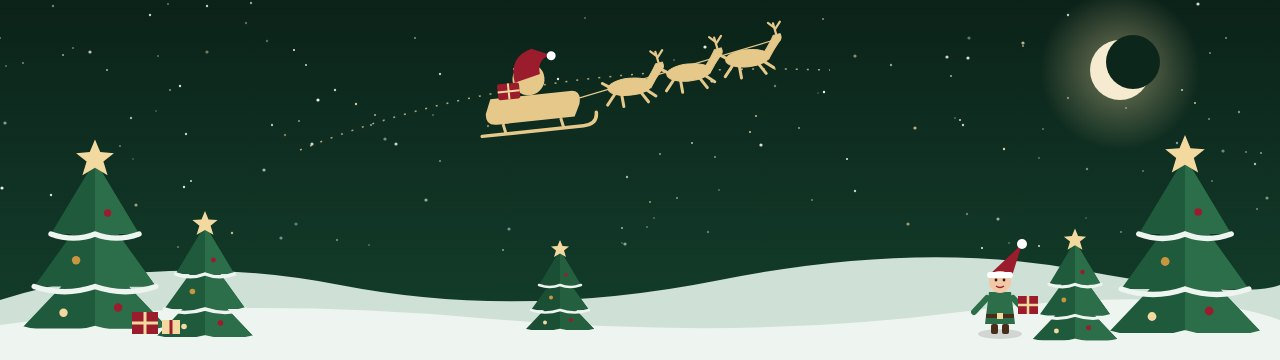
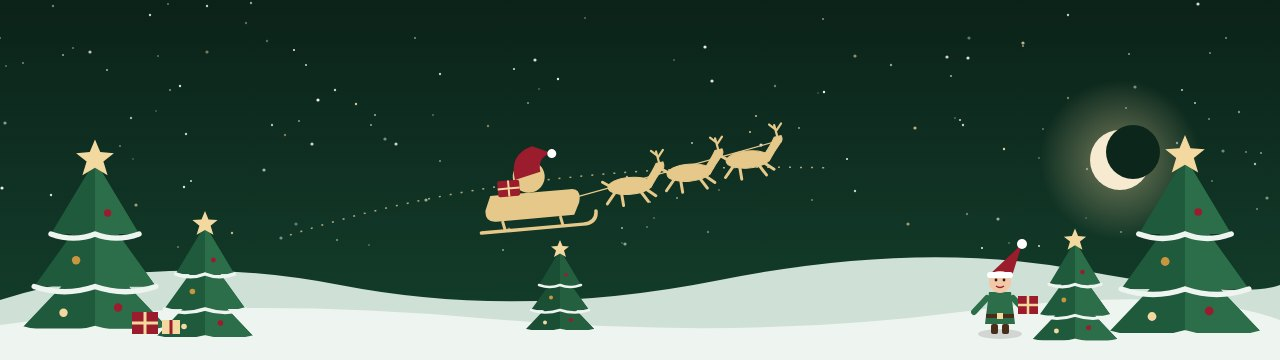
Onglets en haut et plus lisibles, scène corrigée, textes à la première personne, commande dès 12 bouteilles, photo Chardonnay, visuel v6 à la première personne
Claude-Session: https://claude.ai/code/session_016Jhk7mVKL7LLXBijkLCSDG

diff --git a/index.html b/index.html
@@ -164,7 +164,7 @@ body[data-view=tarif]{background-color:#0f2a1f}
 body[data-view=cmd]{background-color:#2a0d14}
 body{background-image:radial-gradient(1.3px 1.3px at 23px 41px,#fff 50%,transparent 52%),radial-gradient(1px 1px at 97px 13px,rgba(255,255,255,.8) 50%,transparent 52%),radial-gradient(1.6px 1.6px at 151px 87px,#f3d9a0 50%,transparent 52%),radial-gradient(1px 1px at 61px 129px,rgba(255,255,255,.7) 50%,transparent 52%),radial-gradient(1.3px 1.3px at 189px 171px,#fff 50%,transparent 52%),radial-gradient(1px 1px at 131px 199px,rgba(243,217,160,.85) 50%,transparent 52%),radial-gradient(1px 1px at 11px 211px,rgba(255,255,255,.6) 50%,transparent 52%);background-size:211px 223px;background-attachment:fixed}
 header{padding-bottom:0;position:relative}
-.scene{position:relative;height:clamp(150px,28vw,340px);margin:8px calc(-1*max(5vw,16px)) 0;overflow:hidden}
+.scene{position:relative;height:clamp(140px,22vw,280px);margin:8px calc(-1*max(5vw,16px)) 0;overflow:hidden}
 .scene svg{position:absolute;inset:0;width:100%;height:100%}
 .bar{background:rgba(9,28,20,.88);backdrop-filter:blur(6px);border-bottom-color:rgba(243,217,160,.25)}
 body[data-view=cmd] .bar{background:rgba(42,13,20,.9)}
@@ -177,17 +177,28 @@ footer{color:#d8d0c2;border-top-color:rgba(243,217,160,.25)}
 @keyframes neige{from{background-position:0 0,0 0,0 0,0 0}to{background-position:40px 520px,-30px 520px,20px 520px,-10px 520px}}
 @media(prefers-reduced-motion:reduce){.neige{animation:none;display:none}}
 @media print{.neige,.scene{display:none}body{background:#fff}}
+
+/* Onglets plus lisibles */
+.tabs a{opacity:1;font-size:16px;font-weight:700;letter-spacing:.01em;color:#fff;text-shadow:0 1px 2px rgba(0,0,0,.35);border:2px solid rgba(255,255,255,.7)}
+.tabs a:hover,.tabs a:focus-visible{border-color:#f3d9a0;filter:brightness(1.15);box-shadow:0 0 0 3px rgba(243,217,160,.35)}
+.tabs a[aria-current=page]{border-width:3px;border-color:#f3d9a0;box-shadow:0 0 0 3px rgba(243,217,160,.45)}
 </style>
 </head>
 <body>
+<div class="neige" aria-hidden="true"></div>
+<nav class="tabs" aria-label="Navigation">
+  <a href="#tarif" id="tTarif">Découvrir les vins</a>
+  <a href="#commande" id="tCmd">Commander <b id="tCount" hidden>0</b></a>
+</nav>
 <header class="band"><div class="wrap">
   <h1>Mon vin sous le sapin</h1>
-  <p>Le tarif complet des 6 domaines partenaires réunis par le Domaine La Ligière. Vous pouvez panacher les bouteilles dans vos cartons, au prix caveau.</p>
+  <p>Pour Noël, nous sommes six vignerons amis à réunir nos vins dans une seule commande. Nous vous proposons de composer vos cartons panachés, au prix du domaine, et nous vous les livrons avant Noël.</p>
   <div class="cond">
-    <span><b>Port offert</b> dès 18 bouteilles</span>
+    <span>Nous acceptons les commandes <b>dès 12 bouteilles</b></span>
+    <span>Nous offrons <b>le port dès 18 bouteilles</b></span>
     <span><b>2 €</b> de port par bouteille en dessous</span>
-    <span>Commande avant le <b>11 décembre</b>, livrée avant Noël</span>
-    <span>Commandes : philippebernard@laligiere.fr</span>
+    <span>Commandez avant le <b>11 décembre</b> : nous livrons avant Noël</span>
+    <span hidden>Commandes : philippebernard@laligiere.fr</span>
   </div>
   <div class="logos" aria-label="Les 6 domaines">
     <img src="img/logo2-ll.webp" alt="Domaine La Ligière"><img src="img/logo2-ja.webp" alt="Domaine Juliette Avril"><img src="img/logo2-dc.webp" alt="Domaine des Combat"><img src="img/logo2-am.webp" alt="Domaine de l'Amauve"><img src="img/logo2-mv.webp" alt="Mas des Volques"><img src="img/logo2-tr.webp" alt="Domaine Trichon">
@@ -202,9 +213,9 @@ footer{color:#d8d0c2;border-top-color:rgba(243,217,160,.25)}
 <path d="M-21,-2 l-6,-4" stroke-width="3"/></g></defs>
 
 <circle cx="415" cy="38" r="0.8" fill="#fff" opacity="0.84"/><circle cx="120" cy="146" r="1.0" fill="#fff" opacity="0.40"/><circle cx="535" cy="60" r="1.6" fill="#fff" opacity="0.85"/><circle cx="158" cy="56" r="0.8" fill="#f3d9a0" opacity="0.70"/><circle cx="63" cy="55" r="1.0" fill="#fff" opacity="0.60"/><circle cx="692" cy="143" r="1.0" fill="#fff" opacity="0.70"/><circle cx="818" cy="93" r="0.8" fill="#f3d9a0" opacity="0.39"/><circle cx="264" cy="170" r="1.6" fill="#fff" opacity="0.63"/><circle cx="1182" cy="90" r="1.0" fill="#fff" opacity="0.77"/><circle cx="312" cy="144" r="1.6" fill="#fff" opacity="0.79"/><circle cx="369" cy="245" r="0.8" fill="#f3d9a0" opacity="0.60"/><circle cx="969" cy="38" r="1.6" fill="#fff" opacity="0.37"/><circle cx="855" cy="191" r="1.2" fill="#fff" opacity="0.77"/><circle cx="761" cy="145" r="1.6" fill="#fff" opacity="0.85"/><circle cx="1209" cy="119" r="0.8" fill="#fff" opacity="0.79"/><circle cx="396" cy="144" r="1.6" fill="#fff" opacity="0.78"/><circle cx="1135" cy="87" r="1.6" fill="#fff" opacity="0.45"/><circle cx="150" cy="15" r="1.2" fill="#fff" opacity="0.79"/><circle cx="509" cy="229" r="1.6" fill="#fff" opacity="0.45"/><circle cx="514" cy="69" r="1.0" fill="#fff" opacity="0.87"/><circle cx="356" cy="104" r="1.2" fill="#f3d9a0" opacity="0.88"/><circle cx="1226" cy="38" r="1.0" fill="#fff" opacity="0.49"/><circle cx="299" cy="121" r="1.0" fill="#fff" opacity="0.52"/><circle cx="186" cy="134" r="1.2" fill="#fff" opacity="0.76"/><circle cx="660" cy="154" r="0.8" fill="#fff" opacity="0.89"/><circle cx="998" cy="219" r="1.6" fill="#fff" opacity="0.59"/><circle cx="133" cy="159" r="0.8" fill="#fff" opacity="0.39"/><circle cx="267" cy="41" r="1.2" fill="#f3d9a0" opacity="0.38"/><circle cx="0" cy="38" r="0.8" fill="#fff" opacity="0.72"/><circle cx="90" cy="52" r="1.6" fill="#fff" opacity="0.73"/><circle cx="1223" cy="151" r="1.6" fill="#fff" opacity="0.42"/><circle cx="625" cy="244" r="1.6" fill="#fff" opacity="0.54"/><circle cx="184" cy="187" r="1.2" fill="#fff" opacity="0.85"/><circle cx="207" cy="6" r="1.2" fill="#fff" opacity="0.76"/><circle cx="1170" cy="190" r="1.2" fill="#f3d9a0" opacity="0.87"/><circle cx="891" cy="65" r="1.2" fill="#fff" opacity="0.56"/><circle cx="285" cy="135" r="1.2" fill="#f3d9a0" opacity="0.48"/><circle cx="1039" cy="246" r="1.0" fill="#fff" opacity="0.84"/><circle cx="947" cy="57" r="1.6" fill="#fff" opacity="0.79"/><circle cx="1267" cy="198" r="1.6" fill="#fff" opacity="0.47"/><circle cx="775" cy="86" r="1.2" fill="#fff" opacity="0.40"/><circle cx="131" cy="118" r="1.2" fill="#fff" opacity="0.64"/><circle cx="1261" cy="153" r="0.8" fill="#fff" opacity="0.90"/><circle cx="440" cy="161" r="0.8" fill="#fff" opacity="0.82"/><circle cx="960" cy="120" r="1.0" fill="#fff" opacity="0.82"/><circle cx="426" cy="200" r="1.6" fill="#fff" opacity="0.59"/><circle cx="1212" cy="181" r="1.0" fill="#fff" opacity="0.37"/><circle cx="756" cy="116" r="1.0" fill="#f3d9a0" opacity="0.85"/><circle cx="1255" cy="164" r="1.2" fill="#fff" opacity="0.68"/><circle cx="168" cy="4" r="0.8" fill="#f3d9a0" opacity="0.80"/><circle cx="178" cy="247" r="1.0" fill="#fff" opacity="0.37"/><circle cx="272" cy="125" r="1.2" fill="#fff" opacity="0.68"/><circle cx="1068" cy="15" r="1.2" fill="#fff" opacity="0.75"/><circle cx="1043" cy="129" r="1.0" fill="#f3d9a0" opacity="0.44"/><circle cx="654" cy="218" r="1.0" fill="#f3d9a0" opacity="0.35"/><circle cx="1023" cy="43" r="1.6" fill="#f3d9a0" opacity="0.79"/><circle cx="712" cy="81" r="1.6" fill="#fff" opacity="0.88"/><circle cx="73" cy="48" r="0.8" fill="#fff" opacity="0.65"/><circle cx="719" cy="190" r="0.8" fill="#fff" opacity="0.55"/><circle cx="1246" cy="152" r="1.0" fill="#f3d9a0" opacity="0.52"/><circle cx="650" cy="202" r="1.0" fill="#f3d9a0" opacity="0.66"/><circle cx="1121" cy="232" r="1.0" fill="#fff" opacity="0.43"/><circle cx="156" cy="111" r="0.8" fill="#f3d9a0" opacity="0.49"/><circle cx="94" cy="167" r="0.8" fill="#fff" opacity="0.91"/><circle cx="824" cy="92" r="1.2" fill="#fff" opacity="0.93"/><circle cx="281" cy="238" r="1.6" fill="#fff" opacity="0.45"/><circle cx="855" cy="56" r="1.6" fill="#f3d9a0" opacity="0.59"/><circle cx="539" cy="89" r="0.8" fill="#f3d9a0" opacity="0.57"/><circle cx="433" cy="115" r="0.8" fill="#fff" opacity="0.55"/><circle cx="799" cy="128" r="0.8" fill="#fff" opacity="0.94"/><circle cx="1009" cy="243" r="0.8" fill="#fff" opacity="0.51"/><circle cx="51" cy="195" r="1.2" fill="#fff" opacity="0.84"/><circle cx="1087" cy="169" r="1.2" fill="#fff" opacity="0.44"/><circle cx="1177" cy="143" r="1.2" fill="#fff" opacity="0.52"/><circle cx="1023" cy="46" r="0.8" fill="#fff" opacity="0.91"/><circle cx="812" cy="200" r="0.8" fill="#f3d9a0" opacity="0.86"/><circle cx="85" cy="216" r="1.6" fill="#fff" opacity="0.55"/><circle cx="708" cy="232" r="1.2" fill="#f3d9a0" opacity="0.43"/><circle cx="674" cy="60" r="0.8" fill="#fff" opacity="0.51"/><circle cx="232" cy="233" r="1.2" fill="#f3d9a0" opacity="0.81"/><circle cx="371" cy="125" r="1.0" fill="#fff" opacity="0.56"/><circle cx="23" cy="63" r="0.8" fill="#fff" opacity="0.79"/><circle cx="705" cy="47" r="1.6" fill="#fff" opacity="0.91"/><circle cx="136" cy="205" r="1.6" fill="#f3d9a0" opacity="0.65"/><circle cx="1068" cy="98" r="1.2" fill="#f3d9a0" opacity="0.48"/><circle cx="294" cy="50" r="1.0" fill="#fff" opacity="0.94"/><circle cx="1257" cy="209" r="0.8" fill="#fff" opacity="0.73"/><circle cx="1126" cy="108" r="0.8" fill="#fff" opacity="0.75"/><circle cx="488" cy="126" r="1.2" fill="#f3d9a0" opacity="0.50"/><circle cx="375" cy="115" r="1.0" fill="#fff" opacity="0.62"/><circle cx="337" cy="240" r="1.2" fill="#fff" opacity="0.37"/><circle cx="1129" cy="54" r="1.0" fill="#fff" opacity="0.55"/><circle cx="107" cy="70" r="1.0" fill="#fff" opacity="0.65"/><circle cx="6" cy="66" r="0.8" fill="#fff" opacity="0.59"/><circle cx="53" cy="6" r="1.2" fill="#f3d9a0" opacity="0.49"/><circle cx="750" cy="132" r="1.0" fill="#f3d9a0" opacity="0.89"/><circle cx="1004" cy="149" r="1.2" fill="#f3d9a0" opacity="0.94"/><circle cx="191" cy="181" r="1.0" fill="#fff" opacity="0.84"/><circle cx="915" cy="128" r="1.6" fill="#f3d9a0" opacity="0.77"/><circle cx="647" cy="227" r="0.8" fill="#f3d9a0" opacity="0.70"/><circle cx="1143" cy="171" r="1.0" fill="#fff" opacity="0.37"/><circle cx="170" cy="90" r="0.8" fill="#fff" opacity="0.85"/><circle cx="715" cy="157" r="1.0" fill="#fff" opacity="0.51"/><circle cx="585" cy="18" r="0.8" fill="#f3d9a0" opacity="0.67"/><circle cx="955" cy="118" r="0.8" fill="#fff" opacity="0.49"/><circle cx="968" cy="58" r="1.6" fill="#fff" opacity="0.86"/><circle cx="98" cy="228" r="1.2" fill="#fff" opacity="0.72"/><circle cx="823" cy="19" r="1.0" fill="#fff" opacity="0.50"/><circle cx="951" cy="76" r="1.0" fill="#fff" opacity="0.64"/><circle cx="622" cy="243" r="0.8" fill="#f3d9a0" opacity="0.48"/><circle cx="627" cy="177" r="1.2" fill="#fff" opacity="0.63"/><circle cx="982" cy="248" r="1.0" fill="#fff" opacity="0.94"/><circle cx="1198" cy="4" r="1.6" fill="#fff" opacity="0.84"/><circle cx="1239" cy="112" r="1.2" fill="#fff" opacity="0.48"/><circle cx="1210" cy="53" r="0.8" fill="#fff" opacity="0.80"/><circle cx="335" cy="90" r="1.2" fill="#fff" opacity="0.77"/><circle cx="296" cy="224" r="1.6" fill="#fff" opacity="0.36"/><circle cx="5" cy="123" r="1.6" fill="#fff" opacity="0.53"/><circle cx="180" cy="86" r="1.2" fill="#fff" opacity="0.85"/><circle cx="2" cy="188" r="1.6" fill="#fff" opacity="0.91"/><circle cx="251" cy="3" r="1.2" fill="#fff" opacity="0.57"/><circle cx="503" cy="250" r="0.8" fill="#fff" opacity="0.91"/><circle cx="967" cy="214" r="1.2" fill="#fff" opacity="0.38"/><circle cx="847" cy="159" r="1.0" fill="#fff" opacity="0.93"/><circle cx="558" cy="79" r="1.2" fill="#fff" opacity="0.88"/><circle cx="1039" cy="158" r="1.0" fill="#f3d9a0" opacity="0.40"/><circle cx="1195" cy="103" r="1.0" fill="#f3d9a0" opacity="0.87"/><circle cx="622" cy="228" r="1.0" fill="#fff" opacity="0.63"/><circle cx="440" cy="74" r="1.2" fill="#fff" opacity="0.74"/><circle cx="385" cy="139" r="1.6" fill="#fff" opacity="0.45"/><circle cx="207" cy="52" r="1.6" fill="#f3d9a0" opacity="0.48"/><circle cx="1160" cy="249" r="1.6" fill="#fff" opacity="0.43"/><circle cx="246" cy="23" r="1.2" fill="#f3d9a0" opacity="0.40"/><circle cx="306" cy="65" r="1.0" fill="#fff" opacity="0.80"/><circle cx="528" cy="103" r="1.0" fill="#fff" opacity="0.51"/><circle cx="963" cy="125" r="1.2" fill="#fff" opacity="0.76"/><circle cx="677" cy="198" r="1.0" fill="#fff" opacity="0.51"/><circle cx="318" cy="100" r="1.6" fill="#fff" opacity="0.92"/><circle cx="1086" cy="218" r="0.8" fill="#fff" opacity="0.37"/><circle cx="908" cy="224" r="1.6" fill="#f3d9a0" opacity="0.64"/>
-<circle cx="1120" cy="70" r="80" fill="url(#glowx)"/><mask id="mn"><circle cx="1120" cy="70" r="30" fill="#fff"/><circle cx="1133" cy="62" r="27" fill="#000"/></mask><circle cx="1120" cy="70" r="30" fill="#f6ead0" mask="url(#mn)"/>
-<path d="M300,150 Q520,60 830,70" stroke="#f3d9a0" stroke-width="1.5" stroke-dasharray="2 9" fill="none" opacity=".7"/>
-<g transform="translate(560,92) rotate(-6)">
+<circle cx="1120" cy="160" r="80" fill="url(#glowx)"/><mask id="mn"><circle cx="1120" cy="160" r="30" fill="#fff"/><circle cx="1133" cy="152" r="27" fill="#000"/></mask><circle cx="1120" cy="160" r="30" fill="#f6ead0" mask="url(#mn)"/>
+<path d="M290,235 Q520,160 830,168" stroke="#f3d9a0" stroke-width="1.5" stroke-dasharray="2 9" fill="none" opacity=".7"/>
+<g transform="translate(560,190) rotate(-5)">
 <use href="#rdx" x="190" y="-14"/><use href="#rdx" x="130" y="-6"/><use href="#rdx" x="70" y="2"/>
 <path d="M18,8 L222,-30" stroke="#e6c98a" stroke-width="1.2"/>
 <g fill="#e6c98a"><path d="M-70,0 L10,0 Q22,0 18,14 L12,26 L-66,26 Q-78,26 -76,14Z"/>
@@ -262,14 +273,10 @@ footer{color:#d8d0c2;border-top-color:rgba(243,217,160,.25)}
 </svg></div>
 </header>
 
-<div class="neige" aria-hidden="true"></div>
-<nav class="tabs" aria-label="Navigation">
-  <a href="#tarif" id="tTarif">Découvrir les vins</a>
-  <a href="#commande" id="tCmd">Commander <b id="tCount" hidden>0</b></a>
-</nav>
+
 <div id="vTarif">
 <div class="bar">
-  <p class="hint">Choisissez vos vins, cliquez sur « Commander » : vous pouvez panacher librement, le port est offert dès 18 bouteilles.</p>
+  <p class="hint">Choisissez vos vins et cliquez sur « Commander » : nous acceptons les commandes dès 12 bouteilles, panachées librement, et nous offrons le port dès 18 bouteilles.</p>
   <div class="ctl">
     <label class="f">Domaine<select id="fDom"></select></label>
     <label class="f">Couleur<select id="fCol"></select></label>
@@ -313,7 +320,7 @@ footer{color:#d8d0c2;border-top-color:rgba(243,217,160,.25)}
   <p class="sub" id="pmsg"></p>
   <p class="sub" id="dem"></p>
   <h2 id="coord">Vos coordonnées</h2>
-  <p class="sub">Les champs marqués <b class="req">*</b> sont obligatoires. Le règlement vous est demandé ensuite par SMS.</p>
+  <p class="sub">Les champs marqués <b class="req">*</b> sont obligatoires. Nous vous demandons ensuite le règlement par SMS.</p>
   <form id="form" class="form" novalidate>
     <label class="f"><span>Nom <b class="req">*</b></span><input id="nom" autocomplete="family-name"></label>
     <label class="f"><span>Prénom <b class="req">*</b></span><input id="prenom" autocomplete="given-name"></label>
@@ -582,11 +589,11 @@ let cart={};
 try{cart=JSON.parse(localStorage.getItem("mvsls-cart")||"{}")||{}}catch(e){}
 for(const k of Object.keys(cart)){if(!(cart[k]>0)||!W[k])delete cart[k]}
 const saveCart=()=>{try{localStorage.setItem("mvsls-cart",JSON.stringify(cart))}catch(e){}};
-const SEUIL=18,PORT=2,ship=q=>q>0&&q<SEUIL?q*PORT:0;
+const MINI=12,SEUIL=18,PORT=2,ship=q=>q>0&&q<SEUIL?q*PORT:0;
 function totals(){let q=0,v=0,n=0;for(const[i,k]of Object.entries(cart)){q+=k;W[i].p?v+=W[i].p*k:n+=k}return{q,v,n,port:ship(q)}}
 function badge(){const t=totals();$("tCount").hidden=!t.q;$("tCount").textContent=t.q;
  const m=$("mini");if(m){m.hidden=!t.q||location.hash==="#commande";$("miq").textContent=t.q;$("mit").textContent=eur(t.v+t.port);
- $("mim").textContent=t.q>=SEUIL?"Port offert !":`Encore ${SEUIL-t.q} pour le port offert`}}
+ $("mim").textContent=t.q<MINI?`Commande dès ${MINI} bouteilles : encore ${MINI-t.q}`:t.q>=SEUIL?"Port offert !":`Encore ${SEUIL-t.q} pour le port offert`}}
 function drawCart(hl){
  const ids=Object.keys(cart).map(Number).sort((a,b)=>(W[b].p||0)-(W[a].p||0));
  $("cart").innerHTML=ids.length?ids.map(i=>{const w=W[i],k=cart[i];
@@ -594,13 +601,13 @@ function drawCart(hl){
   return `<div class="cl${i===hl?" hl":""}" data-i="${i}" id="cl${i}">${vis}<div><div class="n">${esc(w.n)}${w.m?" "+w.m:""}</div><div class="s">${esc(w.d)} · ${esc(w.c)} · ${w.p?eur(w.p)+" la bouteille":"prix sur demande"}</div></div>
   <div class="qty"><button type="button" data-st="-1" aria-label="Retirer une bouteille">−</button><input type="number" min="0" value="${k}" aria-label="Quantité ${esc(w.n)}" data-q><button type="button" data-st="1" aria-label="Ajouter une bouteille">+</button></div>
   <div class="lt">${w.p?eur(w.p*k):"À confirmer"}</div><button class="rm" type="button" aria-label="Retirer ${esc(w.n)}">×</button></div>`}).join(""):
-  `<p class="sub">Votre commande est vide. Retournez au descriptif et cliquez sur « Commander » sous les vins de votre choix.</p>`;
+  `<p class="sub">Votre commande est vide (commande possible dès 12 bouteilles). Retournez à « Découvrir les vins » et cliquez sur « Commander » sous les vins de votre choix.</p>`;
  sums();
 }
 function sums(){const t=totals(),ok=t.q>=SEUIL;
  $("kq").textContent=t.q;$("kv").textContent=eur(t.v);$("kp").textContent=ok?"Offert":eur(t.port);$("kt").textContent=eur(t.v+t.port);
  $("mi").style.width=Math.min(t.q/SEUIL,1)*100+"%";$("meter").classList.toggle("ok",ok);
- $("pmsg").textContent=ok?"Port offert !":t.q?`Encore ${SEUIL-t.q} bouteille${SEUIL-t.q>1?"s":""} pour le port offert (vous économisez ${eur(t.port)}).`:`Port offert dès ${SEUIL} bouteilles, panachage possible.`;
+  $("pmsg").textContent=t.q&&t.q<MINI?`Commande possible dès ${MINI} bouteilles : encore ${MINI-t.q} bouteille${MINI-t.q>1?"s":""} à ajouter.`:ok?"Port offert !":t.q?`Encore ${SEUIL-t.q} bouteille${SEUIL-t.q>1?"s":""} pour le port offert (vous économisez ${eur(t.port)}).`:`Commande possible dès ${MINI} bouteilles, port offert dès ${SEUIL} bouteilles, panachage libre.`;
  $("dem").textContent=t.n?`Dont ${t.n} bouteille${t.n>1?"s":""} au prix sur demande, non comptée${t.n>1?"s":""} dans le total : le prix vous est confirmé avant règlement.`:"";
  badge();saveCart();
 }
@@ -653,6 +660,7 @@ const REQ=[["nom","Nom"],["prenom","Prénom"],["email","E-mail"],["tel","Télép
 const CHK={email:[/^[^\s@]+@[^\s@]+\.[^\s@]+$/,"adresse invalide"],tel:[/^\+?\d{9,15}$/,"numéro invalide"],cp:[/^\d{5}$/,"5 chiffres attendus"]};
 $("form").addEventListener("submit",e=>{e.preventDefault();const pb=[],bad=[];const t=totals();
  if(!t.q)pb.push("Votre commande est vide.");
+ else if(t.q<MINI)pb.push(`La commande est possible dès ${MINI} bouteilles : ajoutez encore ${MINI-t.q} bouteille${MINI-t.q>1?"s":""}.`);
  for(const[id,l]of REQ){const v=$(id).value.trim();if(!v){pb.push(l+" : non renseigné");bad.push(id);continue}
   const c=CHK[id];if(c&&!c[0].test(id==="email"?v:v.replace(/[\s.\-]/g,""))){pb.push(l+" : "+c[1]);bad.push(id)}}
  REQ.forEach(([id])=>$(id).setAttribute("aria-invalid",bad.includes(id)));

diff --git a/emailing.html b/emailing.html
@@ -13,8 +13,8 @@
 <tr><td align="center" style="padding:12px 24px;background:#e6c98a;font:bold 14px Arial,sans-serif;color:#1b1b1b;">En cliquant, vous serez redirigé vers notre site de commande. Si votre messagerie vous le demande, validez simplement l’ouverture du lien.</td></tr>
 <tr><td style="padding:28px 32px 10px;font-size:16px;line-height:1.55;color:#f2ece0;background:#123d2b;">
 <p style="margin:0 0 14px;">Bonjour,</p>
-<p style="margin:0 0 14px;">Cette année, six domaines amis s’associent le temps de Noël : <b style="color:#f3d9a0;">une seule commande</b>, des <b style="color:#f3d9a0;">cartons panachés</b> au prix du domaine, de la vallée du Rhône au Bugey et au Duché d’Uzès.</p>
-<p style="margin:0 0 6px;">✓ <b style="color:#f3d9a0;">Port offert</b> dès 18 bouteilles (sinon 2 € par bouteille)<br>✓ Commandes jusqu’au <b style="color:#f3d9a0;">11 décembre</b>, livraison <b style="color:#f3d9a0;">avant Noël</b><br>✓ Bon de commande envoyé par e-mail, règlement demandé ensuite par SMS</p>
+<p style="margin:0 0 14px;">Cette année, nous sommes six vignerons amis à nous associer le temps de Noël : <b style="color:#f3d9a0;">une seule commande</b>, des <b style="color:#f3d9a0;">cartons panachés</b> au prix du domaine, de la vallée du Rhône au Bugey et au Duché d’Uzès.</p>
+<p style="margin:0 0 6px;">✓ Nous acceptons les commandes <b style="color:#f3d9a0;">dès 12 bouteilles</b>, panachées librement<br>✓ Nous offrons <b style="color:#f3d9a0;">le port dès 18 bouteilles</b> (sinon 2 € par bouteille)<br>✓ Commandez avant le <b style="color:#f3d9a0;">11 décembre</b> : nous livrons <b style="color:#f3d9a0;">avant Noël</b><br>✓ Vous nous envoyez votre bon de commande par e-mail, nous vous demandons ensuite le règlement par SMS</p>
 </td></tr>
 <tr><td align="center" style="padding:18px 24px 14px;background:#123d2b;">
 <a href="https://philippeligiere.github.io/mon-vin-sous-le-sapin/" target="_blank" title="En cliquant, vous serez redirigé vers notre site de commande. Si votre messagerie vous le demande, validez simplement l’ouverture du lien." style="display:inline-block;background:#1f5a3c;border:2px solid #e6c98a;color:#ffffff;text-decoration:none;font-weight:bold;font-size:16px;padding:13px 26px;border-radius:6px;margin:4px;">Découvrir les vins</a>
